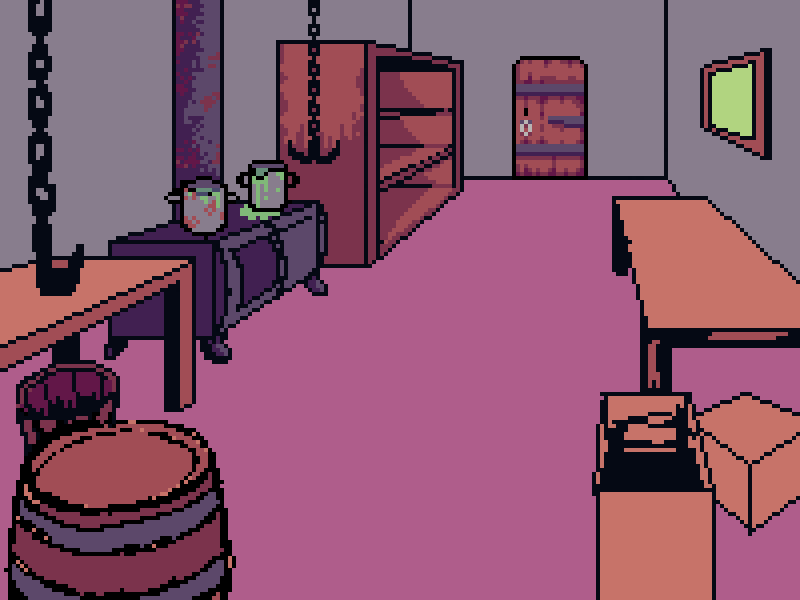
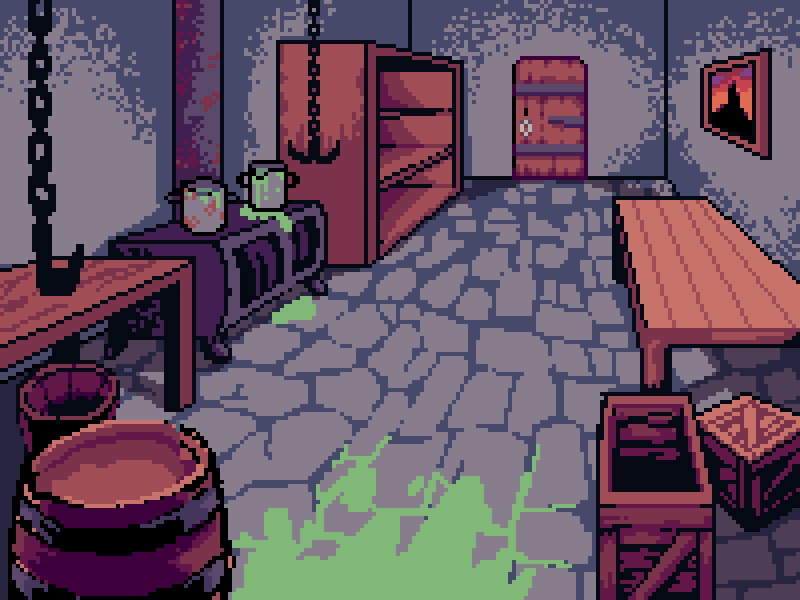
Added goblins to kitchen as separate items/images

diff --git a/js/util/image-loading.js b/js/util/image-loading.js
@@ -24,6 +24,8 @@ let hallway_torch2Pic = document.createElement("img");
 let hallway_creeperPic = document.createElement("img");
 
 let kitchen_door1_openPic = document.createElement("img");
+let kitchen_goblin1Pic = document.createElement("img");
+let kitchen_goblin2Pic = document.createElement("img");
 
 
 // mouse cursors
@@ -90,6 +92,8 @@ function loadImages() {
 
 		{ varName: kitchenPic , filePath: "room3/scene.png"},
 		{ varName: kitchen_door1_openPic , filePath: "room3/door1.png"},
+		{ varName: kitchen_goblin1Pic , filePath: "room3/goblin1.png"},
+		{ varName: kitchen_goblin2Pic , filePath: "room3/goblin2.png"},
 
 		{ varName: disposalPitPic , filePath: "room4/scene.png"},
 		{ varName: storageRoomPic , filePath: "room5/scene.png"},
